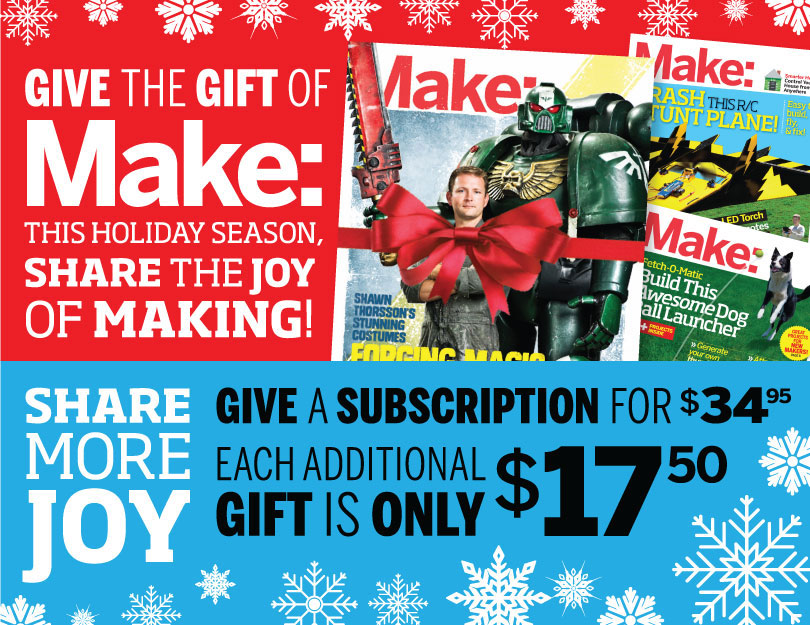
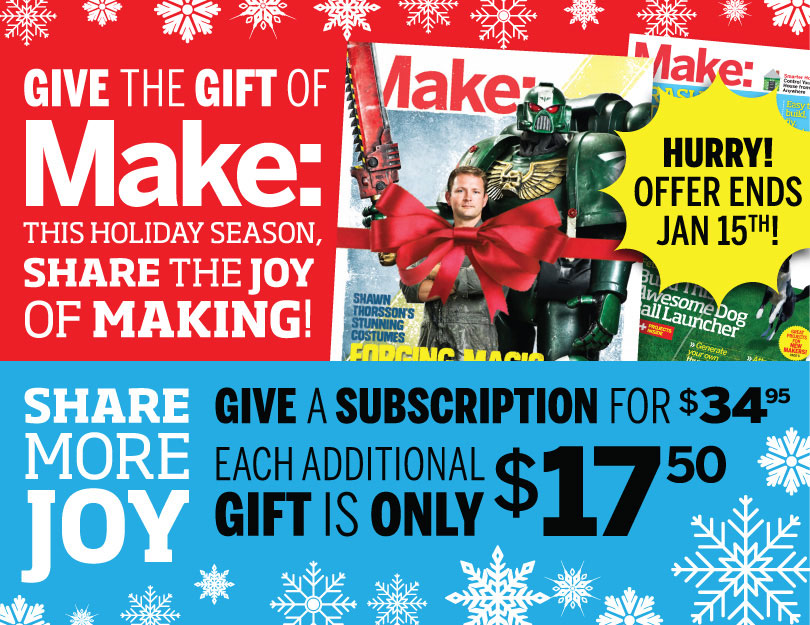
Updating the end of year ads.

diff --git a/index.php b/index.php
@@ -15,7 +15,7 @@
 </head>
 <body>
 
-	<a target="_blank" href="https://readerservices.makezine.com/MK/subgift.aspx?PC=MK&PK=44CBAN7&FC=UNITED+STATES">
+	<a target="_blank" href="https://readerservices.makezine.com/MK/subgift.aspx?PC=MK&PK=44CBAN9&FC=UNITED+STATES">
 		<img src="img/subscribe.jpg" alt="Subscribe to MAKE">
 	</a>
 	
